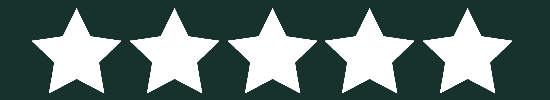
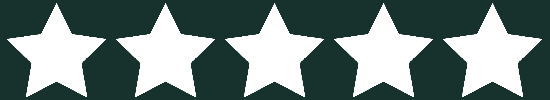
設施介紹的評價星星修正

Changed region(s): [[0.0, 0.03, 0.9891, 0.96], [0.6182, 0.36, 0.6491, 0.39], [0.4327, 0.54, 0.4636, 0.57]]

diff --git a/css/facilityInfo_main.css b/css/facilityInfo_main.css
@@ -1453,8 +1453,8 @@ body::-webkit-scrollbar-thumb {
 	line-height: 1.5;
 }
 .memScore .points_cover{
-	width: 131px;/*550*/
-	height: 24px;/*100*/
+	width: 132px;/*179*/
+	height: 26px;/*36*/
 	position: relative;
 
 	cursor: pointer;

diff --git a/ajax_facility_info.php b/ajax_facility_info.php
@@ -66,7 +66,7 @@ try{
 
 
       // }
-      $stwidth = $rating->comment_grade*19.52;
+      $stwidth = $rating->comment_grade*19.99;
 //------
       $cctString ="";
       $newString="";
